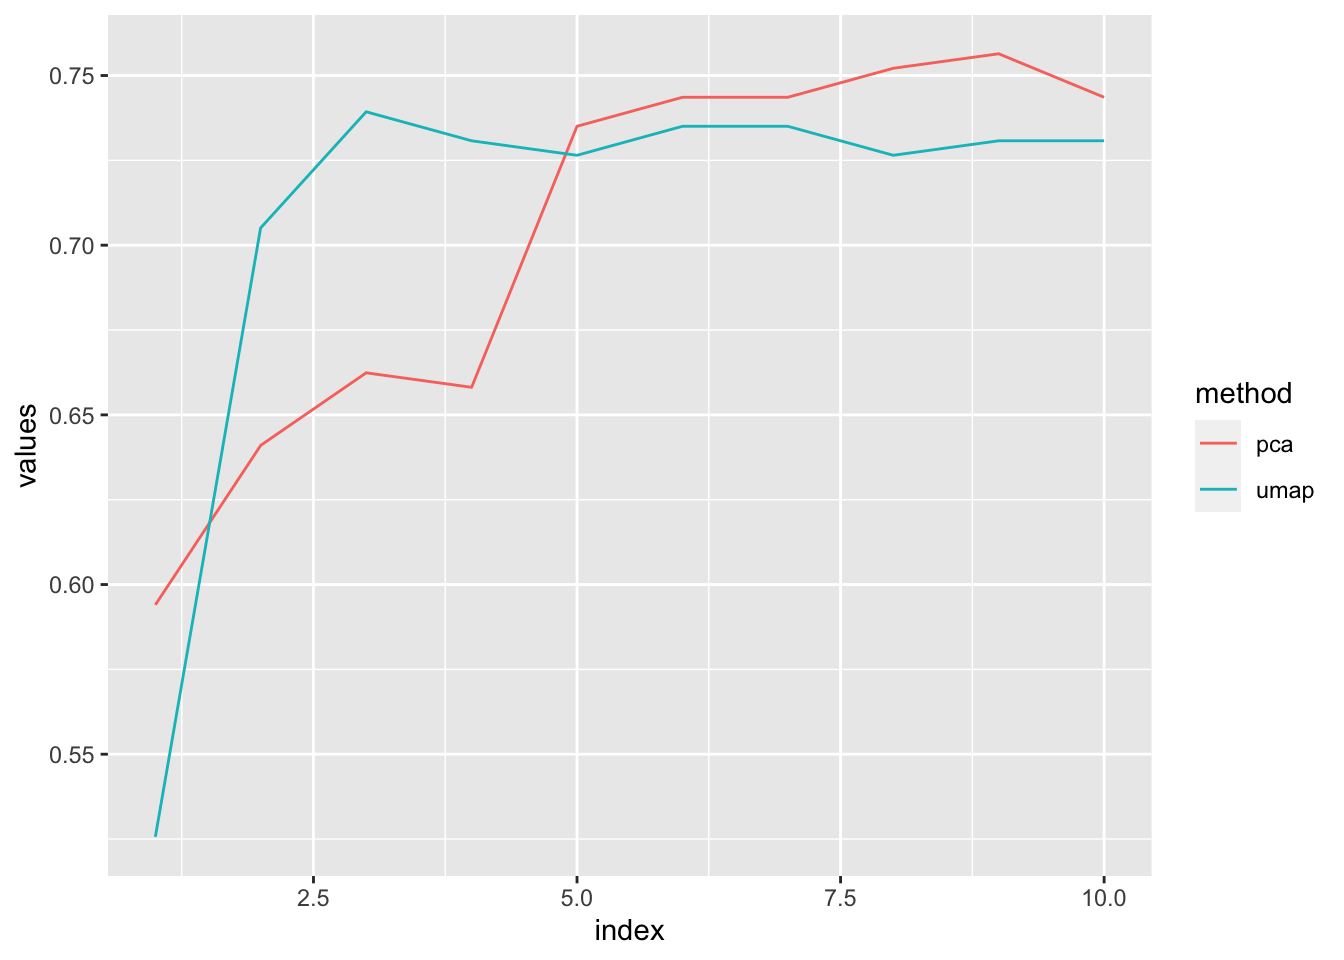
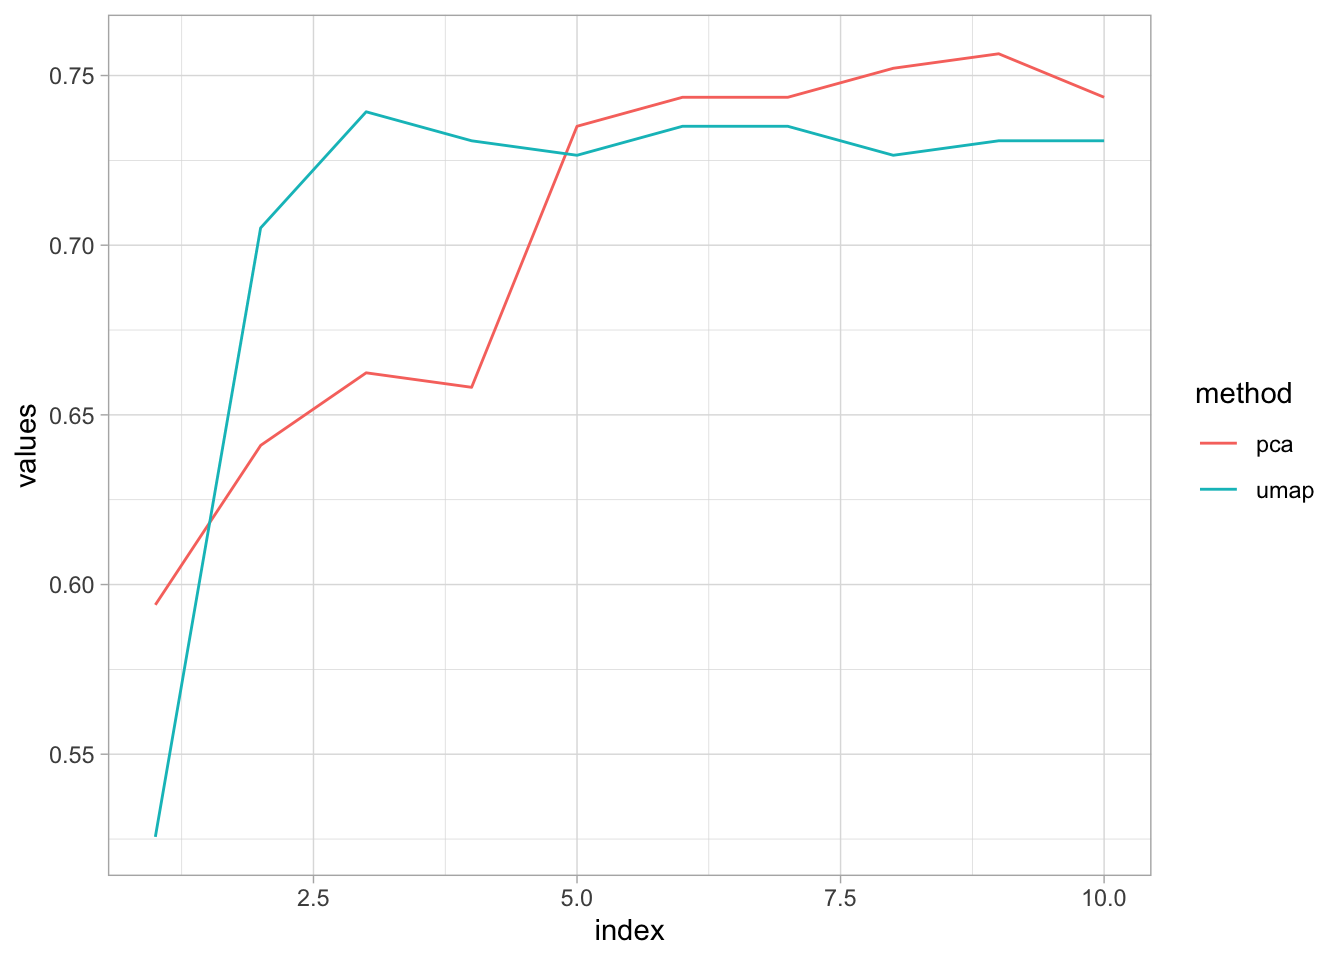
post1

diff --git a/content/post/2021-08-02-pca-and-umap/index.en.html b/content/post/2021-08-02-pca-and-umap/index.en.html
@@ -7,14 +7,14 @@ categories:
   - Data Mining
 tags: []
 subtitle: ''
-summary: ''
+summary: 'Comparision of the performance of Principle Component Analysis and Uniform manifold approximation and projection'
 authors: []
 lastmod: '2021-10-07T11:40:50+01:00'
 featured: no
 image: 
   caption: ''
   focal_point: ''
-  preview_only: no
+  preview_only: yes
 projects: []
 ---
 
@@ -24,6 +24,7 @@ projects: []
 <p>In this blog, I mainly compared two dimensionality reduction methods, i.e. PCA (Principle Component Analysis) and UMAP (Uniform manifold approximation and projection). Let’s explore which one is better, PCA, the traditional method of dimensionality reduction or, UMAP the new boy.</p>
 <p>Let’s start with data mining. If you want to remember the codes, then you need to practice them everyday, right?</p>
 <pre class="r"><code>library(tidyverse)
+theme_set(theme_light())
 library(janitor)</code></pre>
 <p>The dataset used in this blog comes from <a href="https://github.com/rfordatascience/tidytuesday">TidyTuesday Dataset</a>, 2020-05-26, about cocktail recipes.</p>
 <pre class="r"><code>boston_cocktails &lt;- readr::read_csv(&quot;https://raw.githubusercontent.com/rfordatascience/tidytuesday/master/data/2020/2020-05-26/boston_cocktails.csv&quot;)
@@ -243,7 +244,7 @@ result  %&gt;%
 time_UMAP &lt;- microbenchmark(svm_test(3,&quot;UMAP&quot;), times = 10, unit=&quot;s&quot;)
 time_PCA &lt;- microbenchmark(svm_test(5,&quot;PCA&quot;), times = 10, unit=&quot;s&quot;)
 cat(&quot;UMAP: &quot;, mean(time_UMAP$time)/1e9, &quot;, PCA: &quot;, mean(time_PCA$time/1e9))</code></pre>
-<pre><code>## UMAP:  1.998064 , PCA:  0.331211</code></pre>
+<pre><code>## UMAP:  1.922981 , PCA:  0.3062645</code></pre>
 <p>Here is the result, PCA undoubtedly crushes UMAP. I know, I know, you mean that this is because the dataset is so small that the advantages of low dimensionality are not fully realezed, and this is just one example and doesn’t tell us much. I totally agree, I really am. <strong>What I would like to say is, the job of a data analyst should not be to blindly pursue new technologies, but to be flexible and efficient in getting tasks done.</strong></p>
 <p>Some of the code for the data mining section is taken from <a href="https://www.youtube.com/watch?v=_1msVvPE_KY">here</a>, I’m very grateful to <a href="https://www.youtube.com/watch?v=_1msVvPE_KY">Julia Silge</a> and <a href="https://www.youtube.com/watch?v=_1msVvPE_KY">David Robinson</a> for their videos.</p>
 <p><strong>Leave a message if you like this blog.</strong></p>
